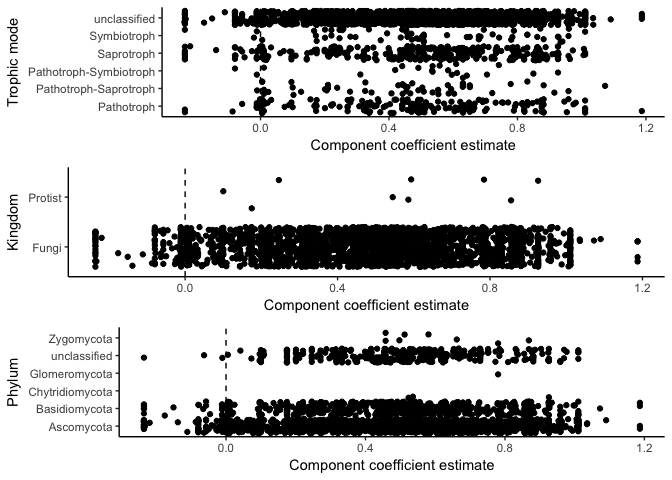
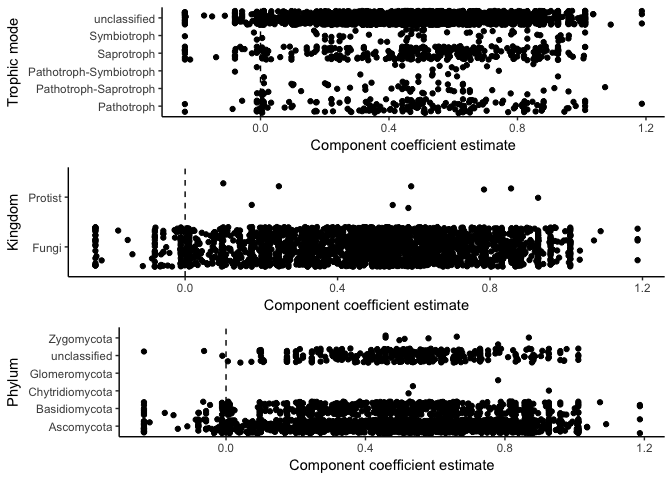
updates readme with WA-PLS screeplots and interpretation

diff --git a/README.md b/README.md
@@ -187,11 +187,11 @@ Community as a predictor
     ## Comp04 0.1708756 0.2921546 -0.014679983 0.2863511 22.35357   1.5345464
     ## Comp05 0.1725708 0.2854071 -0.014202926 0.2902932 20.80528   0.9920909
     ##            p
-    ## Comp01 0.041
-    ## Comp02 0.202
-    ## Comp03 0.930
-    ## Comp04 0.850
-    ## Comp05 0.918
+    ## Comp01 0.031
+    ## Comp02 0.204
+    ## Comp03 0.945
+    ## Comp04 0.844
+    ## Comp05 0.884
 
 This is likely an underlying signiture of wood traits on the initial microbial community that is driving the relationship between the community and the mass remaining after 37 months. Check this out by plotting OTU trait-associated coefs (from boral) versus component coef estimate.
 
@@ -212,6 +212,8 @@ Community+traits as a predictor
 ### time 7, 13, 25, 37
 
 **none of the community components are significant predictors**
+
+There are two cases where there's a large % decrease in model RMSE from Component 1 to Component 2. This happens when using the whole community dataset to predict trait residuals at time13 and time37. In both cases the cross-validated RMSE is way higher than the model RMSE for all the components, suggesting that even the first community component doesn't perform well on the leave-one-out validation dataset. Also, the cross-validated R-squared values (correlation between the observed and predicted values from the "loo" validation dataset) show that the model fit decreases after Component 1. If there were a global maximum such that we saw an increase in R2 after adding more Components then maybe we could interpret Component 2, but there is no evidence of a better fitting model with more components based on the cross-validation results.
 
 ########################################## 
 
